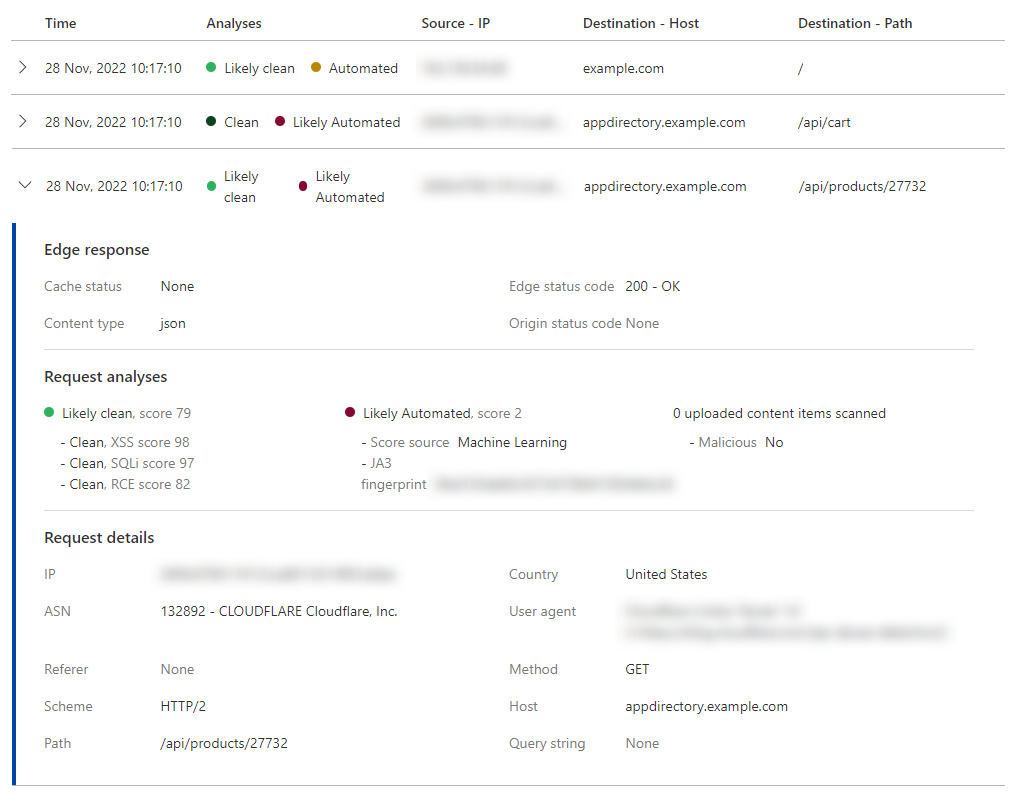
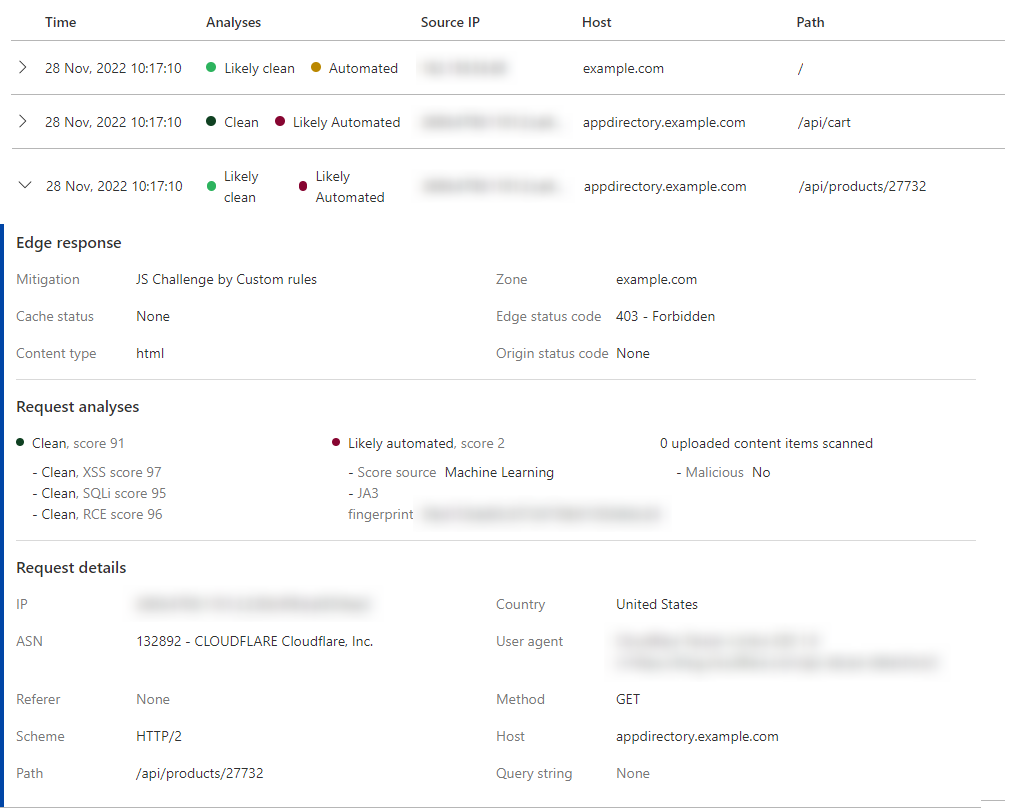
[WAF] Security Analytics: Update unmitigated traffic (#10317)

diff --git a/content/waf/security-analytics/index.md b/content/waf/security-analytics/index.md
@@ -13,14 +13,12 @@ The Security Analytics dashboard displays information about all incoming HTTP re
 Available to customers on Business and Enterprise plans.
 {{</Aside>}}
 
-In the dashboard you can visualize which traffic is being mitigated by Cloudflare, review several security-related statistics about incoming requests (such as [bot score](/bots/concepts/bot-score/), [attack scores](/waf/about/waf-attack-score/), and [uploaded content scanning](/waf/about/content-scanning/) results), and check which requests are reaching the origin server or being handled directly by Cloudflare.
-
-Use Security Analytics to:
+Use the Security Analytics dashboard to:
 
 * View the traffic distribution for your domain.
+* Understand which traffic is being mitigated by Cloudflare security products, and where non-mitigated traffic is being served from (Cloudflare global network or origin server).
 * Analyze suspicious traffic and create tailored WAF custom rules based on applied filters.
-* Understand which traffic is being mitigated by Cloudflare security products.
-* Learn more about Cloudflare’s security scores (attack, bot, content scanning) with real data.
+* Learn more about Cloudflare’s security scores ([attack score](/waf/about/waf-attack-score/), [bot score](/bots/concepts/bot-score/), [uploaded content scanning](/waf/about/content-scanning/) results) with real data.
 * [Find an appropriate rate limit](/waf/rate-limiting-rules/find-rate-limit/) for incoming traffic.
 
 If you need to modify existing security-related rules you already configured, consider also using the [Security Events](/waf/security-events/) dashboard. This dashboard displays information about requests affected by Cloudflare security products.
@@ -65,7 +63,7 @@ Select the time frame you wish to analyze from the _Previous 24 hours_ drop-down
 
 ## Create custom rule from current filters
 
-To create a [custom rule](/waf/custom-rules/) with an expression based on the filters you applied in Security Analytics, select **Create custom rule**.
+To create a [custom rule](/waf/custom-rules/) with an expression based on the filters you applied in Security Analytics, select **Create custom rule** above the main chart.
 
 ---
 
@@ -103,7 +101,12 @@ Additionally, you can use the slider tool below the chart to filter incoming req
 
 The main chart displays the following data for the selected time frame, according to the selected tab:
 
-* **HTTP requests**: Requests mitigated by a Cloudflare security product and requests that were not mitigated. Mitigated requests include requests blocked or challenged by Cloudflare's application security products such as the WAF and HTTP DDoS protection. Unmitigated requests include requests handled using one of the following actions: _Log_, _Skip_, _Allow_.
+* **HTTP requests**: Traffic mitigated by the Cloudflare security platform, served by Cloudflare, and served by the origin server, according to the following classification:
+
+    * **Mitigated by WAF**: Requests blocked or challenged by Cloudflare's application security products such as the WAF and HTTP DDoS protection. It does not include requests that had the following actions applied: _Log_, _Skip_, and _Allow_.
+    * **Served by Cloudflare**: Requests served by the Cloudflare global network such as cached content and redirects.
+    * **Served by origin**: Requests served by your origin server.
+
 * **Attack analysis**: [WAF attack score](/waf/about/waf-attack-score/) analysis of incoming requests, classifying them as _Clean_, _Likely clean_, _Likely attack_, or _Attack_.
 * **Bot analysis**: [Bot score](/bots/concepts/bot-score/) analysis of incoming requests, classifying them as _Automated_, _Likely automated_, or _Likely human_.
 * **Rate limit analysis**: displays data on the request rate for traffic matching the selected filters and time period. Use this tab to [find an appropriate rate limit](/waf/rate-limiting-rules/find-rate-limit/) for incoming traffic matching the applied filters.
@@ -116,6 +119,7 @@ This section contains detailed log information for individual ([sampled](#final-
 
 The displayed information includes:
 
+* Mitigation action applied to the request
 * Cache status
 * Status code returned by the origin server to Cloudflare (in case of a cache miss)
 * Status code returned by Cloudflare to the client
